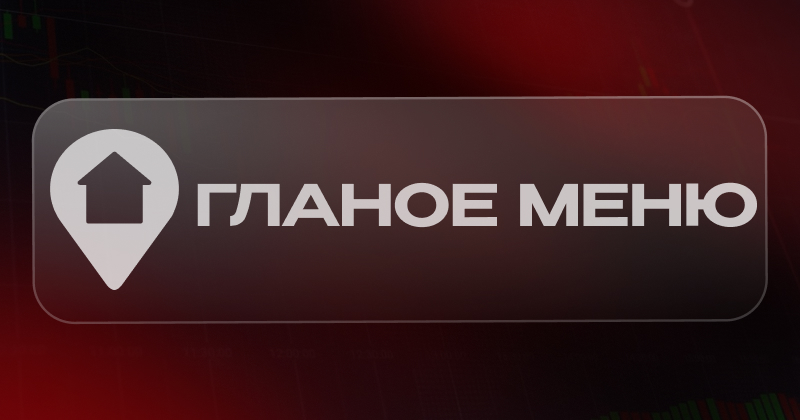
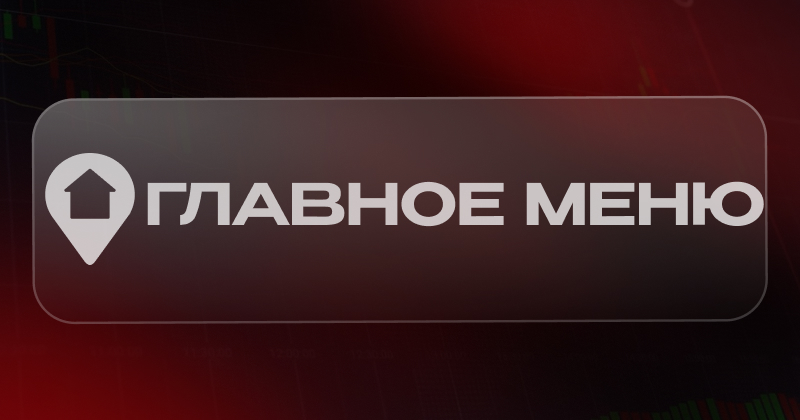
фикс багов

Changed region(s): [[0.0312, 0.3095, 0.9688, 0.7119]]

diff --git a/app/bots/child/bot_instance.py b/app/bots/child/bot_instance.py
@@ -1801,6 +1801,8 @@ async def run_child_bot(tenant: Tenant):
             text = data_state.get("bcast_text") or ""
             media_id = data_state.get("bcast_media")
             media_kind = data_state.get("bcast_media_kind")
+            src_chat_id = data_state.get("bcast_src_chat")
+            src_msg_id = data_state.get("bcast_src_msg")
 
             # Соберём список получателей
             db = SessionLocal()
@@ -1841,37 +1843,63 @@ async def run_child_bot(tenant: Tenant):
             async def _run_broadcast():
                 sent = 0
                 failed = 0
+                errors: dict[str, int] = {}
                 bot_local = cb.message.bot
 
                 for uid in users:
                     try:
-                        if media_kind == "photo":
-                            await bot_local.send_photo(uid, media_id, caption=text or "")
-                        elif media_kind == "video":
-                            await bot_local.send_video(uid, media_id, caption=text or "")
-                        elif media_kind == "document":
-                            await bot_local.send_document(uid, media_id, caption=text or "")
+                        if src_chat_id and src_msg_id:
+                            # Копируем оригинальное сообщение 1-в-1 (и текст, и медиа)
+                            await bot_local.copy_message(
+                                chat_id=uid,
+                                from_chat_id=src_chat_id,
+                                message_id=src_msg_id
+                            )
                         else:
-                            await bot_local.send_message(uid, text or "")
+                            # Фолбэк: отправка «как раньше»
+                            if media_kind == "photo":
+                                await bot_local.send_photo(uid, media_id, caption=text or "")
+                            elif media_kind == "video":
+                                await bot_local.send_video(uid, media_id, caption=text or "")
+                            elif media_kind == "document":
+                                await bot_local.send_document(uid, media_id, caption=text or "")
+                            elif media_kind == "animation":
+                                await bot_local.send_animation(uid, media_id, caption=text or "")
+                            else:
+                                await bot_local.send_message(uid, text or "")
                         sent += 1
-                    except Exception:
+                    except Exception as e:
                         failed += 1
+                        msg = str(e)
+                        if "blocked by the user" in msg:
+                            key = "blocked_by_user"
+                        elif "can't initiate conversation" in msg or "initiate conversation" in msg:
+                            key = "no_start_from_user"
+                        elif "chat not found" in msg:
+                            key = "chat_not_found"
+                        elif "user is deactivated" in msg:
+                            key = "user_deactivated"
+                        else:
+                            key = msg[:120]
+                        errors[key] = errors.get(key, 0) + 1
                     await asyncio.sleep(interval)
 
+                parts = [f"📣 Рассылка завершена.\nОтправлено: <b>{sent}</b>\nОшибок: <b>{failed}</b>"]
+                if failed:
+                    top = sorted(errors.items(), key=lambda x: -x[1])[:5]
+                    parts.append("\nПричины ошибок:")
+                    for k, n in top:
+                        title = {
+                            "blocked_by_user": "пользователь заблокировал бота",
+                            "no_start_from_user": "юзер не писал боту",
+                            "chat_not_found": "чат не найден (id устарел/невалиден)",
+                            "user_deactivated": "аккаунт удалён",
+                        }.get(k, k)
+                        parts.append(f"• {title}: <b>{n}</b>")
+                summary = "\n".join(parts)
+
                 with contextlib.suppress(Exception):
-                    await bot_local.send_message(
-                        tenant.owner_tg_id,
-                        f"📣 Рассылка завершена.\nОтправлено: <b>{sent}</b>\nОшибок: <b>{failed}</b>."
-                    )
-
-            asyncio.create_task(_run_broadcast(), name=f"broadcast-{tenant.id}")
-            await cb.answer();
-            return
-
-        # если что-то иное — домой
-        await cb.answer()
-        return
-        # ---- end admin_router
+                    await bot_local.send_message(tenant.owner_tg_id, summary)
 
     # ---- Admin: LINK inputs
     @r.message(AdminForm.waiting_support)
@@ -2210,14 +2238,25 @@ async def run_child_bot(tenant: Tenant):
             media_id = msg.document.file_id
             media_kind = "document"
             text = msg.caption or ""
+        elif msg.animation:
+            media_id = msg.animation.file_id
+            media_kind = "animation"
+            text = msg.caption or ""
         else:
             text = msg.text or ""
 
         if not (text or media_id):
-            await msg.answer("Нужно отправить текст или медиа (фото/видео/документ). Попробуйте ещё раз.")
+            await msg.answer("Нужно отправить текст или медиа (фото/видео/документ/GIF). Попробуйте ещё раз.")
             return
 
-        await state.update_data(bcast_text=text, bcast_media=media_id, bcast_media_kind=media_kind)
+        # Сохраняем всё + координаты исходного сообщения для copy_message
+        await state.update_data(
+            bcast_text=text,
+            bcast_media=media_id,
+            bcast_media_kind=media_kind,
+            bcast_src_chat=msg.chat.id,
+            bcast_src_msg=msg.message_id,
+        )
 
         kb = InlineKeyboardMarkup(
             inline_keyboard=[
@@ -2233,6 +2272,8 @@ async def run_child_bot(tenant: Tenant):
             await msg.answer_video(media_id, caption=head + (text or ""), reply_markup=kb)
         elif media_kind == "document":
             await msg.answer_document(media_id, caption=head + (text or ""), reply_markup=kb)
+        elif media_kind == "animation":
+            await msg.answer_animation(media_id, caption=head + (text or ""), reply_markup=kb)
         else:
             await msg.answer(head + (text or ""), reply_markup=kb)
 
